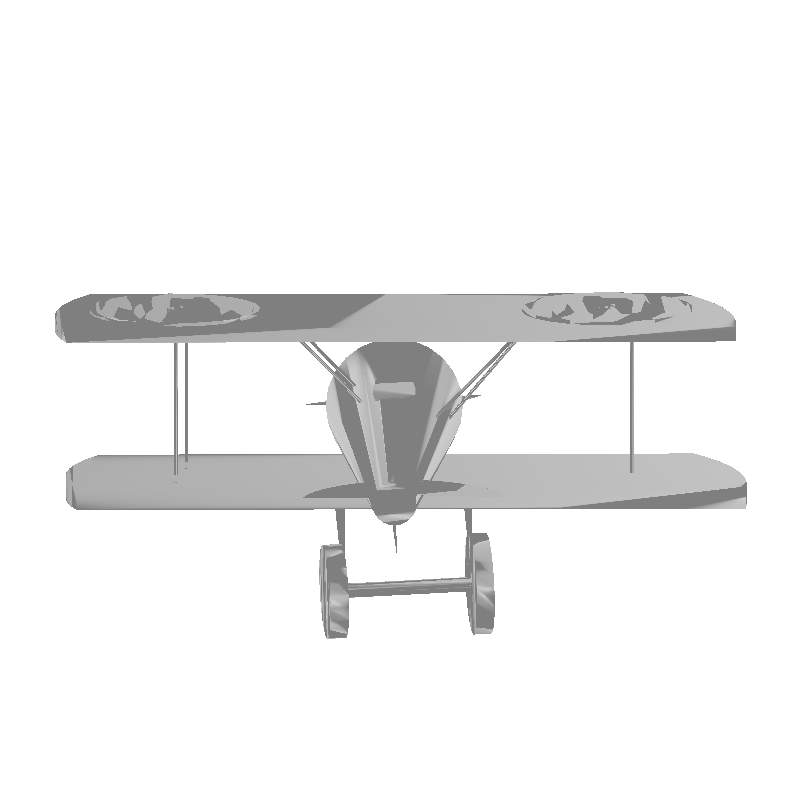
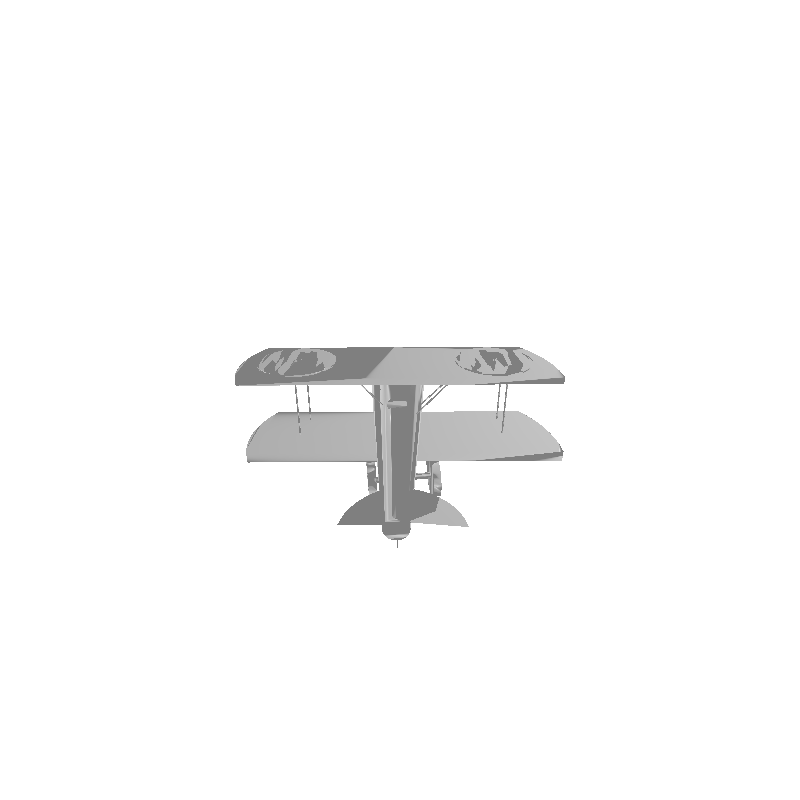
adding generation, fixing visualisation and adding simulation of the path

Changed region(s): [[0.0625, 0.3438, 0.9375, 0.8125]]

diff --git a/flowMatching.py b/flowMatching.py
@@ -4,6 +4,7 @@ import torch.nn.functional as F
 import numpy as np
 import pytorch3d.transforms as transforms
 from pytorch3d.utils import ico_sphere
+from pytorch3d.structures import join_meshes_as_batch
 from pytorch3d.loss import (
     chamfer_distance, 
     mesh_edge_loss, 
@@ -12,15 +13,18 @@ from pytorch3d.loss import (
 )
 from tqdm.notebook import tqdm
 from pytorch3d.ops import sample_points_from_meshes
+from math import ceil
 
 class FlowMatching():
 
-    def __init__(self, model, training_type=3, device='cuda', simulation_iterations=100):
+    def __init__(self, model, training_type=3, device='cuda', simulation_iterations=300, simulation_lr=8.0, simulation_detail = 10000, sphere_detail=50, x_0_purtubation_amount=20, x_0_purtubation_power=0.05):
         """
         :param model: the neural network used for vector field predictions
         :param device: the torch device it will be run on
         :training_type: the type of training to be done (1,2,3)
         """
+
+        self.model = model
 
         self.device = device
         self.training_type = training_type
@@ -29,10 +33,13 @@ class FlowMatching():
         self.sigma_small = torch.tensor([0.0001], device=self.device)
         self.epsilon = 0.000001
         self.simulation_iterations = simulation_iterations
-        self.simulation_detail = 5000
+        self.simulation_lr = simulation_lr
+        self.simulation_detail = simulation_detail
 
-        self.x_0_purtubation_amount = 50
-        self.x_0_purtubation_power = 0.001
+        self.sphere_detail = sphere_detail
+        self.x_0_purtubation_amount = x_0_purtubation_amount
+        self.x_0_purtubation_power = x_0_purtubation_power
+        
 
     def sample_timestep(self, n):
         """
@@ -43,26 +50,36 @@ class FlowMatching():
     
 
     def random_generation(self, x_1):
-        return torch.randn_like(x_1)
+        raise Exception("Sorry, not implemented random generation yet") 
+        # return torch.randn_like(x_1)
 
     def purturbed_x_1(self, x_1):
-        pass
+        x_0_mesh = x_1.extend(1)
+
+         # Diform the vertexes by the normals of them, in order to get a good representation !!
+        for i in range(self.x_0_purtubation_amount):
+            normals = x_0_mesh.verts_normals_padded()
+
+            deform_offset = normals[0] * (torch.rand((normals.shape[1],1), device = x_0_mesh.device) * 2. -1) * self.x_0_purtubation_power
+
+            # This might need to be multiplied, make sure to debug!!
+            x_0_mesh = x_0_mesh.offset_verts(deform_offset)
+        
+        return x_0_mesh
 
     def purturbed_sphere(self, x_1):
-        # ico_sphere starts with 12 verts, and *4 each subdivision
-        x_0_mesh = ico_sphere(x_1.shape ** (1/4), self.device)
+        x_0_mesh = ico_sphere(ceil(self.sphere_detail ** (1/4)), self.device).extend(x_1.verts_padded().shape[0])
 
         # Diform the vertexes by the normals of them, in order to get a good representation !!
         for i in range(self.x_0_purtubation_amount):
-            x_0_points = sample_points_from_meshes(x_0_mesh, self.num_pts)
-            normals = x_0_points.verts_normals_padded()
-            deform_offset = normals * torch.rand((normals.shape[0],1))
+            normals = x_0_mesh.verts_normals_padded()
+
+            deform_offset = normals[0] * (torch.rand((normals.shape[1],1), device = x_0_mesh.device) * 2. -1) * self.x_0_purtubation_power
 
             # This might need to be multiplied, make sure to debug!!
-            x_0_mesh = deform_offset.offset_verts(deform_offset)
+            x_0_mesh = x_0_mesh.offset_verts(deform_offset)
 
         return x_0_mesh
-
     
     def generate_x_0(self, x_1):
         if self.training_type == 1:
@@ -85,14 +102,18 @@ class FlowMatching():
         w_edge = 1.0 
         w_normal = 0.01 
         w_laplacian = 0.1 
+
         
-        loop = tqdm(range(t))
+        max_iter = int(t.max())+1
+        simulation = [x_0.extend(1)]
+
         print('simulating trajectory')
-        for i in loop:
+        for i in range(max_iter):
             optimizer.zero_grad()
             
             # Deform the mesh
             new_src_mesh = x_0.offset_verts(deform_verts)
+            simulation.append(new_src_mesh.extend(1))
 
             sample_trg = sample_points_from_meshes(x_1, self.simulation_detail)
             sample_src = sample_points_from_meshes(new_src_mesh, self.simulation_detail)
@@ -105,17 +126,17 @@ class FlowMatching():
             # Weighted sum of the losses
             loss = loss_chamfer * w_chamfer + loss_edge * w_edge + loss_normal * w_normal + loss_laplacian * w_laplacian
 
-            loop.set_description('total_loss = %.6f' % loss)
             # Optimization step
             loss.backward()
             optimizer.step()
-
-        return new_src_mesh
+            
+        # return simulation[t]
+        return simulation
         
     
     def conditional_flow(self, x_0, x_1, t):
-        amount_to_simulate = self.simulation_iterations * t
-        return simulate_path(x_0, x_1, amount_to_simulate)
+        amount_to_simulate = (self.simulation_iterations * t).ceil().int()
+        return self.simulate_path(x_0, x_1, amount_to_simulate)
 
         # return (1 - (1 - self.sigma_small) * t) * x_0 + t * x_1
     
@@ -152,7 +173,7 @@ class FlowMatching():
 
         x_0 = self.generate_x_0(self, x_1)
 
-        t = self.sample_timestep(x_0.shape[0]).requires_grad_(True)
+        t = self.sample_timestep(x_1.verts_padded().shape[0]).requires_grad_(True)
 
         # Maybe try to learn the chamfer distance gradient instead of the euclidian vector !!
 
@@ -166,9 +187,11 @@ class FlowMatching():
         return loss
     
     def sample(self, n, timesteps=50, scale=1, labels=None):
+        x_0_mesh = ico_sphere(2, self.device).extend(n)
+
         self.model.eval()
         with torch.no_grad():
-            z = self.generate_x_0("?????????????").to(self.device)
+            z = self.generate_x_0(x_0_mesh).to(self.device)
 
             steps = torch.linspace(0.0, 1.0, timesteps, device=self.device)
             mask = torch.ones(z)
@@ -177,8 +200,49 @@ class FlowMatching():
                 t = torch.full((n,1), steps[i], device=self.device)
                 v_t = self.apply_nn(z,t, mask, labels)
 
-                z = z + 1 / timesteps * v_t
+                z = z + 1 / timesteps * v_t * scale
                 
         self.model.train()
 
         return z
+    
+
+if __name__ == '__main__':
+    from visualiser import visualise_mesh
+    from pytorch3d.ops import sample_points_from_meshes
+    from pytorch3d.io import load_obj
+    from pytorch3d.structures import Meshes
+    
+    model = FlowMatching(None, device = 'cuda')
+
+    verts, faces, _ = load_obj("../ShapeNetCore/02691156/1a04e3eab45ca15dd86060f189eb133/models/model_normalized.obj")
+
+    center = verts.mean(0)
+    verts = verts - center
+    scale = max(verts.abs().max(0)[0])
+    verts = verts / scale
+
+    x_1 = Meshes(verts=[verts], faces=[faces.verts_idx]).to(device = 'cuda')
+    
+    save_dir = './outputs/images/test'
+
+    x_0 = model.generate_x_0(x_1)
+    
+    visualise_mesh(x_1,save_dir + '_base_x1_mesh')
+    visualise_mesh(x_0,save_dir + '_base_x0_mesh')
+
+    # t = model.sample_timestep(x_1.verts_padded().shape[0])
+    t = torch.ones(x_1.verts_padded().shape[0], device = 'cuda').unsqueeze(-1)
+
+    x_0_simulated = model.conditional_flow(x_0, x_1, t)
+    # print(x_0_simulated.shape)
+
+    visualise_mesh(x_0_simulated[-1],save_dir + '_simulated_x0_mesh')    
+
+    for i in range(0,len(x_0_simulated), 10):
+        print('Outputing: ', i)
+        visualise_mesh(x_0_simulated[i],"./outputs/images/simulation/{:03d}".format(i))    
+
+    
+
+    

diff --git a/visualiser.py b/visualiser.py
@@ -8,7 +8,7 @@ import torchvision
 # modified from https://github.com/benjiebob/SMALViewer/blob/master/p3d_renderer.py
 from pytorch3d.renderer import (
     look_at_view_transform,
-    FoVOrthographicCameras, 
+    FoVPerspectiveCameras, 
     PointsRasterizationSettings,
     PointsRenderer,
     PointsRasterizer,
@@ -37,8 +37,8 @@ class PointCloudRenderer(nn.Module):
         self.device = device
 
         # Initialize a camera.
-        R, T = look_at_view_transform(20, 10, 0)
-        cameras = FoVOrthographicCameras(device=device, R=R, T=T, znear=0.01)
+        R, T = look_at_view_transform(2.7, 25, 0)
+        cameras = FoVPerspectiveCameras(device=device, R=R, T=T,  fov =80)
 
         raster_settings = PointsRasterizationSettings(
             image_size=img_size, 
@@ -76,8 +76,8 @@ class ObjRenderer(nn.Module):
             bin_size=None
         )
 
-        R, T = look_at_view_transform(20, 10, 0)
-        cameras = FoVOrthographicCameras(device=device, R=R, T=T, znear=0.01)
+        R, T = look_at_view_transform(2.7, 25, 0)
+        cameras = FoVPerspectiveCameras(device=device, R=R, T=T,  fov =80)
         lights = PointLights(device=device, location=[[2.0, 2.0, 0.0]])
 
         self.renderer = MeshRenderer(
@@ -126,7 +126,7 @@ def visualise_point_cloud(points, img_loc, save_grid=True):
         images_to_grid(images.permute(0, 3,1,2), img_loc + '.png', nrow=4)
 
     else:
-        for i in images:
+        for i in range(len(images)):
             plt.imsave(img_loc + "_{:03d}.png".format(i), images[i].numpy())
 
 def visualise_mesh(mesh, img_loc, save_grid=True):
@@ -139,7 +139,7 @@ def visualise_mesh(mesh, img_loc, save_grid=True):
         images_to_grid(images.permute(0, 3,1,2), img_loc + '.png', nrow=4)
 
     else:
-        for i in images:
+        for i in range(len(images)):
             plt.imsave(img_loc + "_{:03d}.png".format(i), images[i].numpy())
 
 

diff --git a/train.py b/train.py
@@ -11,7 +11,7 @@ from neural_network import MeshTransformer
 from pytorch3d.io import save_obj
 
 from dataset import MeshData
-from visualiser import visualise
+from visualiser import visualise_mesh
 
 
 def train(args):
@@ -47,12 +47,12 @@ def train(args):
             torch.save(model.state_dict(), f"{args['save_dir']}/models/model_{epoch}")
             sampled = flow.sample(args['samples'], scale=1)
 
-            visualise(sampled, f"{args['save_dir']}/images/epoch_{epoch}", args['save_grid'])
+            visualise_mesh(sampled, f"{args['save_dir']}/images/epoch_{epoch}", args['save_grid'])
 
 
     torch.save(model.state_dict(), f"{args['save_dir']}/models/model_final")
     sampled = flow.sample(args['samples'], scale=1).cpu().numpy()
-    visualise(sampled, f"{args['save_dir']}/images/final", args['save_grid'])
+    visualise_mesh(sampled, f"{args['save_dir']}/images/final", args['save_grid'])
 
 
 
